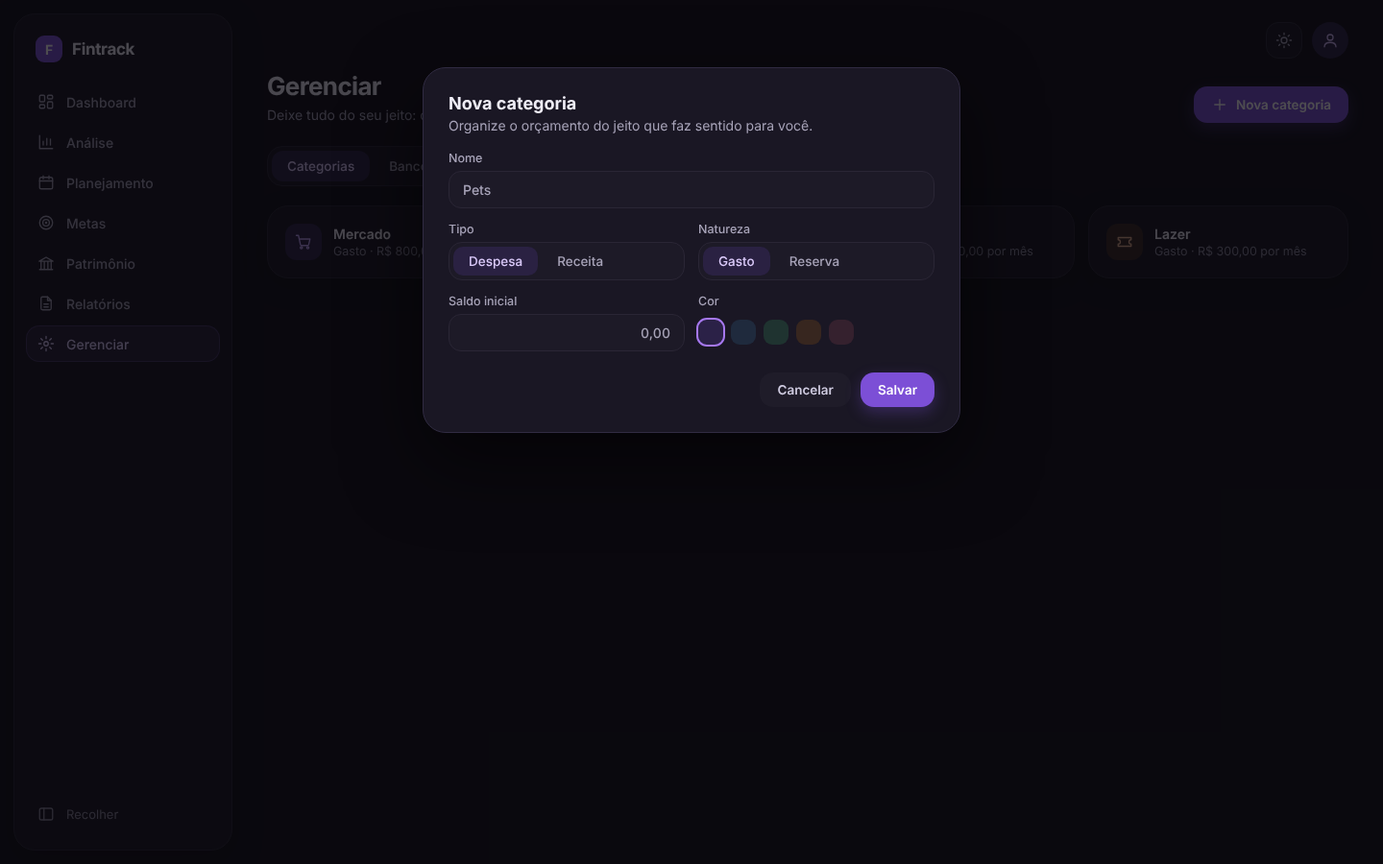
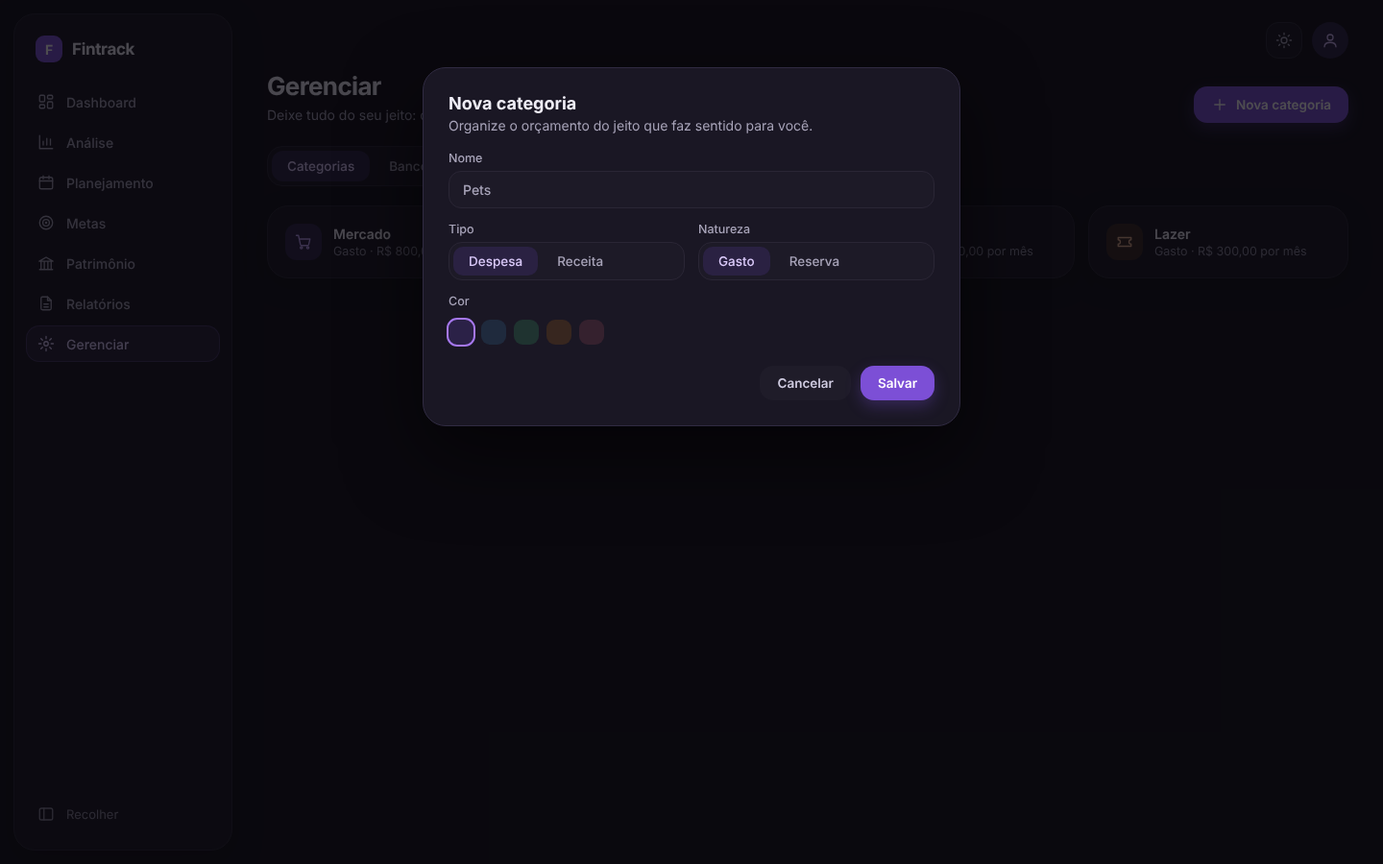
docs: new sections for planning module

diff --git a/docs/design/html/manage.html b/docs/design/html/manage.html
@@ -75,6 +75,6 @@ h1{margin:0;font-size:26px;font-weight:700;letter-spacing:-.025em}.sub{margin:6p
 @media (max-width:640px){.side{flex-basis:100%;margin:12px}.inner{padding:16px}}
 </style>
 <div class="wrap"><div class="shell"><aside class="side"><div class="brand"><span class="logo">F</span>Fintrack</div><a class="nav" href="#"><svg aria-hidden="true" viewBox="0 0 24 24"><rect x="3" y="3" width="7" height="9" rx="1.5"/><rect x="14" y="3" width="7" height="5" rx="1.5"/><rect x="14" y="12" width="7" height="9" rx="1.5"/><rect x="3" y="16" width="7" height="5" rx="1.5"/></svg>Dashboard</a><a class="nav" href="#"><svg aria-hidden="true" viewBox="0 0 24 24"><path d="M3 3v18h18"/><path d="M8 16v-5M13 16V7M18 16v-8"/></svg>Análise</a><a class="nav" href="#"><svg aria-hidden="true" viewBox="0 0 24 24"><rect x="3" y="5" width="18" height="16" rx="2.5"/><path d="M8 3v4M16 3v4M3 10h18"/></svg>Planejamento</a><a class="nav" href="#"><svg aria-hidden="true" viewBox="0 0 24 24"><circle cx="12" cy="12" r="9"/><circle cx="12" cy="12" r="4.5"/><circle cx="12" cy="12" r=".8"/></svg>Metas</a><a class="nav" href="#"><svg aria-hidden="true" viewBox="0 0 24 24"><path d="M3 21h18M5 21V10M9.5 21V10M14.5 21V10M19 21V10M2.5 9.5 12 4l9.5 5.5z"/></svg>Patrimônio</a><a class="nav" href="#"><svg aria-hidden="true" viewBox="0 0 24 24"><path d="M14 3H7a2 2 0 0 0-2 2v14a2 2 0 0 0 2 2h10a2 2 0 0 0 2-2V8z"/><path d="M14 3v5h5M9 13h6M9 17h6"/></svg>Relatórios</a><a class="nav on" href="#"><svg aria-hidden="true" viewBox="0 0 24 24"><circle cx="12" cy="12" r="3"/><path d="M12 2v3M12 19v3M2 12h3M19 12h3M4.9 4.9l2.1 2.1M17 17l2.1 2.1M4.9 19.1 7 17M17 7l2.1-2.1"/></svg>Gerenciar</a><button class="fold" type="button"><svg aria-hidden="true" viewBox="0 0 24 24"><rect x="3" y="4" width="18" height="16" rx="2.5"/><path d="M9 4v16"/></svg>Recolher</button></aside><div class="col"><div class="inner"><div class="top"><button class="ibtn" type="button" aria-label="Alternar tema"><svg aria-hidden="true" viewBox="0 0 24 24"><circle cx="12" cy="12" r="4"/><path d="M12 2v2M12 20v2M2 12h2M20 12h2M4.9 4.9l1.4 1.4M17.7 17.7l1.4 1.4M4.9 19.1l1.4-1.4M17.7 6.3l1.4-1.4"/></svg></button><button class="avatar" type="button" aria-label="Perfil"><svg aria-hidden="true" viewBox="0 0 24 24"><circle cx="12" cy="8" r="4"/><path d="M4 21c0-4 3.6-6 8-6s8 2 8 6"/></svg></button></div>
-<div class="head"><div><h1>Gerenciar</h1><p class="sub">Deixe tudo do seu jeito: categorias, bancos, cartões e formas de pagamento.</p></div><div style="display:flex;gap:10px;align-items:center"><button class="btn" type="button"><svg aria-hidden="true" viewBox="0 0 24 24"><path d="M12 5v14M5 12h14"/></svg>Nova categoria</button></div></div><div style="display:flex;justify-content:space-between;align-items:center;flex-wrap:wrap;gap:12px;margin-bottom:6px"><div class="pills" style="margin:0"><span class="pill on">Categorias</span><span class="pill">Bancos</span><span class="pill">Cartões</span><span class="pill">Pagamentos</span></div><div style="display:flex;gap:10px"><div class="inp" style="width:240px;display:flex;gap:8px;color:#8a8699"><svg aria-hidden="true" viewBox="0 0 24 24"><circle cx="11" cy="11" r="7"/><path d="M20 20l-3.5-3.5"/></svg>Buscar por nome</div><button class="btn ghost" type="button">Mostrar arquivados</button></div></div><h2 class="lbl" style="margin:18px 0 12px;letter-spacing:.04em;text-transform:uppercase;font-size:12px">Despesas</h2><div style="display:grid;grid-template-columns:repeat(auto-fill,minmax(270px,1fr));gap:14px;margin-bottom:26px"><div class="card" style="padding:18px;display:flex;flex-direction:column;gap:16px"><div style="display:flex;gap:12px;align-items:center"><div class="tile" style="background:#2b2147;color:#c3a5fa"><svg aria-hidden="true" viewBox="0 0 24 24"><circle cx="9" cy="20" r="1.5"/><circle cx="18" cy="20" r="1.5"/><path d="M2 3h3l2.7 12.4a2 2 0 0 0 2 1.6h7.6a2 2 0 0 0 2-1.5L21 8H6"/></svg></div><div><div class="nm">Mercado</div><div class="mt">Gasto · R$ 800,00 por mês</div></div></div><div style="display:flex;gap:6px"><button class="btn ghost" style="padding:6px 12px;font-size:12.5px" type="button">Editar</button><button class="btn ghost" style="padding:6px 12px;font-size:12.5px" type="button">Arquivar</button></div></div><div class="card" style="padding:18px;display:flex;flex-direction:column;gap:16px"><div style="display:flex;gap:12px;align-items:center"><div class="tile" style="background:#1f2a3d;color:#8fb7ee"><svg aria-hidden="true" viewBox="0 0 24 24"><path d="M3 11 12 3l9 8M5 10v10h14V10"/></svg></div><div><div class="nm">Moradia</div><div class="mt">Gasto · R$ 1.450,00 por mês</div></div></div><div style="display:flex;gap:6px"><button class="btn ghost" style="padding:6px 12px;font-size:12.5px" type="button">Editar</button><button class="btn ghost" style="padding:6px 12px;font-size:12.5px" type="button">Arquivar</button></div></div><div class="card" style="padding:18px;display:flex;flex-direction:column;gap:16px"><div style="display:flex;gap:12px;align-items:center"><div class="tile" style="background:#1f3330;color:#86cdb7"><svg aria-hidden="true" viewBox="0 0 24 24"><path d="M5 16V11l2-5h10l2 5v5M3 16h18"/></svg></div><div><div class="nm">Transporte</div><div class="mt">Gasto · R$ 400,00 por mês</div></div></div><div style="display:flex;gap:6px"><button class="btn ghost" style="padding:6px 12px;font-size:12.5px" type="button">Editar</button><button class="btn ghost" style="padding:6px 12px;font-size:12.5px" type="button">Arquivar</button></div></div><div class="card" style="padding:18px;display:flex;flex-direction:column;gap:16px"><div style="display:flex;gap:12px;align-items:center"><div class="tile" style="background:#37261f;color:#e6b08d"><svg aria-hidden="true" viewBox="0 0 24 24"><path d="M3 9V6h18v3a3 3 0 0 0 0 6v3H3v-3a3 3 0 0 0 0-6z"/></svg></div><div><div class="nm">Lazer</div><div class="mt">Gasto · R$ 300,00 por mês</div></div></div><div style="display:flex;gap:6px"><button class="btn ghost" style="padding:6px 12px;font-size:12.5px" type="button">Editar</button><button class="btn ghost" style="padding:6px 12px;font-size:12.5px" type="button">Arquivar</button></div></div><div class="card" style="padding:18px;display:flex;flex-direction:column;gap:16px"><div style="display:flex;gap:12px;align-items:center"><div class="tile" style="background:#35212e;color:#e69bb9"><svg aria-hidden="true" viewBox="0 0 24 24"><path d="M12 21s-7-4.5-9-9a5 5 0 0 1 9-3 5 5 0 0 1 9 3c-2 4.5-9 9-9 9z"/></svg></div><div><div class="nm">Saúde</div><div class="mt">Gasto · R$ 250,00 por mês</div></div></div><div style="display:flex;gap:6px"><button class="btn ghost" style="padding:6px 12px;font-size:12.5px" type="button">Editar</button><button class="btn ghost" style="padding:6px 12px;font-size:12.5px" type="button">Arquivar</button></div></div><div class="card" style="padding:18px;display:flex;flex-direction:column;gap:16px"><div style="display:flex;gap:12px;align-items:center"><div class="tile" style="background:#25232e;color:#a7a3b8"><svg aria-hidden="true" viewBox="0 0 24 24"><circle cx="9" cy="20" r="1.5"/><circle cx="18" cy="20" r="1.5"/><path d="M2 3h3l2.7 12.4a2 2 0 0 0 2 1.6h7.6a2 2 0 0 0 2-1.5L21 8H6"/></svg></div><div><div class="nm">Outros</div><div class="mt">Gasto · R$ 120,00 por mês</div></div></div><div style="display:flex;gap:6px"><button class="btn ghost" style="padding:6px 12px;font-size:12.5px" type="button">Editar</button><button class="btn ghost" style="padding:6px 12px;font-size:12.5px" type="button">Arquivar</button></div></div></div><h2 class="lbl" style="margin:0 0 12px;letter-spacing:.04em;text-transform:uppercase;font-size:12px">Reservas e receitas</h2><div style="display:grid;grid-template-columns:repeat(auto-fill,minmax(270px,1fr));gap:14px;margin-bottom:26px"><div class="card" style="padding:18px;display:flex;flex-direction:column;gap:16px"><div style="display:flex;gap:12px;align-items:center"><div class="tile" style="background:#2b2147;color:#c3a5fa"><svg aria-hidden="true" viewBox="0 0 24 24"><path d="M3 17l6-6 4 4 8-8M15 7h6v6"/></svg></div><div><div class="nm">Investimentos</div><div class="mt">Reserva · saldo R$ 1.500,00</div></div></div><div style="display:flex;gap:6px"><button class="btn ghost" style="padding:6px 12px;font-size:12.5px" type="button">Editar</button><button class="btn ghost" style="padding:6px 12px;font-size:12.5px" type="button">Arquivar</button></div></div><div class="card" style="padding:18px;display:flex;flex-direction:column;gap:16px"><div style="display:flex;gap:12px;align-items:center"><div class="tile" style="background:#1f3330;color:#86cdb7"><svg aria-hidden="true" viewBox="0 0 24 24"><rect x="3" y="6" width="18" height="12" rx="2.5"/><circle cx="12" cy="12" r="2.5"/></svg></div><div><div class="nm">Salário</div><div class="mt">Receita</div></div></div><div style="display:flex;gap:6px"><button class="btn ghost" style="padding:6px 12px;font-size:12.5px" type="button">Editar</button><button class="btn ghost" style="padding:6px 12px;font-size:12.5px" type="button">Arquivar</button></div></div></div></div></div></div></div>
+<div class="head"><div><h1>Gerenciar</h1><p class="sub">Deixe tudo do seu jeito: categorias, bancos, cartões e formas de pagamento.</p></div><div style="display:flex;gap:10px;align-items:center"><button class="btn" type="button"><svg aria-hidden="true" viewBox="0 0 24 24"><path d="M12 5v14M5 12h14"/></svg>Nova categoria</button></div></div><div style="display:flex;justify-content:space-between;align-items:center;flex-wrap:wrap;gap:12px;margin-bottom:6px"><div class="pills" style="margin:0"><span class="pill on">Categorias</span><span class="pill">Bancos</span><span class="pill">Cartões</span><span class="pill">Pagamentos</span></div><div style="display:flex;gap:10px"><div class="inp" style="width:240px;display:flex;gap:8px;color:#8a8699"><svg aria-hidden="true" viewBox="0 0 24 24"><circle cx="11" cy="11" r="7"/><path d="M20 20l-3.5-3.5"/></svg>Buscar por nome</div><button class="btn ghost" type="button">Mostrar arquivados</button></div></div><h2 class="lbl" style="margin:18px 0 12px;letter-spacing:.04em;text-transform:uppercase;font-size:12px">Despesas</h2><div style="display:grid;grid-template-columns:repeat(auto-fill,minmax(270px,1fr));gap:14px;margin-bottom:26px"><div class="card" style="padding:18px;display:flex;flex-direction:column;gap:16px"><div style="display:flex;gap:12px;align-items:center"><div class="tile" style="background:#2b2147;color:#c3a5fa"><svg aria-hidden="true" viewBox="0 0 24 24"><circle cx="9" cy="20" r="1.5"/><circle cx="18" cy="20" r="1.5"/><path d="M2 3h3l2.7 12.4a2 2 0 0 0 2 1.6h7.6a2 2 0 0 0 2-1.5L21 8H6"/></svg></div><div><div class="nm">Mercado</div><div class="mt">Gasto · R$ 800,00 por mês</div></div></div><div style="display:flex;gap:6px"><button class="btn ghost" style="padding:6px 12px;font-size:12.5px" type="button">Editar</button><button class="btn ghost" style="padding:6px 12px;font-size:12.5px" type="button">Arquivar</button></div></div><div class="card" style="padding:18px;display:flex;flex-direction:column;gap:16px"><div style="display:flex;gap:12px;align-items:center"><div class="tile" style="background:#1f2a3d;color:#8fb7ee"><svg aria-hidden="true" viewBox="0 0 24 24"><path d="M3 11 12 3l9 8M5 10v10h14V10"/></svg></div><div><div class="nm">Moradia</div><div class="mt">Gasto · R$ 1.450,00 por mês</div></div></div><div style="display:flex;gap:6px"><button class="btn ghost" style="padding:6px 12px;font-size:12.5px" type="button">Editar</button><button class="btn ghost" style="padding:6px 12px;font-size:12.5px" type="button">Arquivar</button></div></div><div class="card" style="padding:18px;display:flex;flex-direction:column;gap:16px"><div style="display:flex;gap:12px;align-items:center"><div class="tile" style="background:#1f3330;color:#86cdb7"><svg aria-hidden="true" viewBox="0 0 24 24"><path d="M5 16V11l2-5h10l2 5v5M3 16h18"/></svg></div><div><div class="nm">Transporte</div><div class="mt">Gasto · R$ 400,00 por mês</div></div></div><div style="display:flex;gap:6px"><button class="btn ghost" style="padding:6px 12px;font-size:12.5px" type="button">Editar</button><button class="btn ghost" style="padding:6px 12px;font-size:12.5px" type="button">Arquivar</button></div></div><div class="card" style="padding:18px;display:flex;flex-direction:column;gap:16px"><div style="display:flex;gap:12px;align-items:center"><div class="tile" style="background:#37261f;color:#e6b08d"><svg aria-hidden="true" viewBox="0 0 24 24"><path d="M3 9V6h18v3a3 3 0 0 0 0 6v3H3v-3a3 3 0 0 0 0-6z"/></svg></div><div><div class="nm">Lazer</div><div class="mt">Gasto · R$ 300,00 por mês</div></div></div><div style="display:flex;gap:6px"><button class="btn ghost" style="padding:6px 12px;font-size:12.5px" type="button">Editar</button><button class="btn ghost" style="padding:6px 12px;font-size:12.5px" type="button">Arquivar</button></div></div><div class="card" style="padding:18px;display:flex;flex-direction:column;gap:16px"><div style="display:flex;gap:12px;align-items:center"><div class="tile" style="background:#35212e;color:#e69bb9"><svg aria-hidden="true" viewBox="0 0 24 24"><path d="M12 21s-7-4.5-9-9a5 5 0 0 1 9-3 5 5 0 0 1 9 3c-2 4.5-9 9-9 9z"/></svg></div><div><div class="nm">Saúde</div><div class="mt">Gasto · R$ 250,00 por mês</div></div></div><div style="display:flex;gap:6px"><button class="btn ghost" style="padding:6px 12px;font-size:12.5px" type="button">Editar</button><button class="btn ghost" style="padding:6px 12px;font-size:12.5px" type="button">Arquivar</button></div></div><div class="card" style="padding:18px;display:flex;flex-direction:column;gap:16px"><div style="display:flex;gap:12px;align-items:center"><div class="tile" style="background:#25232e;color:#a7a3b8"><svg aria-hidden="true" viewBox="0 0 24 24"><circle cx="9" cy="20" r="1.5"/><circle cx="18" cy="20" r="1.5"/><path d="M2 3h3l2.7 12.4a2 2 0 0 0 2 1.6h7.6a2 2 0 0 0 2-1.5L21 8H6"/></svg></div><div><div class="nm">Outros</div><div class="mt">Gasto · R$ 120,00 por mês</div></div></div><div style="display:flex;gap:6px"><button class="btn ghost" style="padding:6px 12px;font-size:12.5px" type="button">Editar</button><button class="btn ghost" style="padding:6px 12px;font-size:12.5px" type="button">Arquivar</button></div></div></div><h2 class="lbl" style="margin:0 0 12px;letter-spacing:.04em;text-transform:uppercase;font-size:12px">Reservas e receitas</h2><div style="display:grid;grid-template-columns:repeat(auto-fill,minmax(270px,1fr));gap:14px;margin-bottom:26px"><div class="card" style="padding:18px;display:flex;flex-direction:column;gap:16px"><div style="display:flex;gap:12px;align-items:center"><div class="tile" style="background:#2b2147;color:#c3a5fa"><svg aria-hidden="true" viewBox="0 0 24 24"><path d="M3 17l6-6 4 4 8-8M15 7h6v6"/></svg></div><div><div class="nm">Investimentos</div><div class="mt">Reserva</div></div></div><div style="display:flex;gap:6px"><button class="btn ghost" style="padding:6px 12px;font-size:12.5px" type="button">Editar</button><button class="btn ghost" style="padding:6px 12px;font-size:12.5px" type="button">Arquivar</button></div></div><div class="card" style="padding:18px;display:flex;flex-direction:column;gap:16px"><div style="display:flex;gap:12px;align-items:center"><div class="tile" style="background:#1f3330;color:#86cdb7"><svg aria-hidden="true" viewBox="0 0 24 24"><rect x="3" y="6" width="18" height="12" rx="2.5"/><circle cx="12" cy="12" r="2.5"/></svg></div><div><div class="nm">Salário</div><div class="mt">Receita</div></div></div><div style="display:flex;gap:6px"><button class="btn ghost" style="padding:6px 12px;font-size:12.5px" type="button">Editar</button><button class="btn ghost" style="padding:6px 12px;font-size:12.5px" type="button">Arquivar</button></div></div></div></div></div></div></div>
 
 </body></html>

diff --git a/docs/design/html/planning.html b/docs/design/html/planning.html
@@ -75,12 +75,15 @@ h1{margin:0;font-size:26px;font-weight:700;letter-spacing:-.025em}.sub{margin:6p
 @media (max-width:640px){.side{flex-basis:100%;margin:12px}.inner{padding:16px}}
 </style>
 <div class="wrap"><div class="shell"><aside class="side"><div class="brand"><span class="logo">F</span>Fintrack</div><a class="nav" href="#"><svg aria-hidden="true" viewBox="0 0 24 24"><rect x="3" y="3" width="7" height="9" rx="1.5"/><rect x="14" y="3" width="7" height="5" rx="1.5"/><rect x="14" y="12" width="7" height="9" rx="1.5"/><rect x="3" y="16" width="7" height="5" rx="1.5"/></svg>Dashboard</a><a class="nav" href="#"><svg aria-hidden="true" viewBox="0 0 24 24"><path d="M3 3v18h18"/><path d="M8 16v-5M13 16V7M18 16v-8"/></svg>Análise</a><a class="nav on" href="#"><svg aria-hidden="true" viewBox="0 0 24 24"><rect x="3" y="5" width="18" height="16" rx="2.5"/><path d="M8 3v4M16 3v4M3 10h18"/></svg>Planejamento</a><a class="nav" href="#"><svg aria-hidden="true" viewBox="0 0 24 24"><circle cx="12" cy="12" r="9"/><circle cx="12" cy="12" r="4.5"/><circle cx="12" cy="12" r=".8"/></svg>Metas</a><a class="nav" href="#"><svg aria-hidden="true" viewBox="0 0 24 24"><path d="M3 21h18M5 21V10M9.5 21V10M14.5 21V10M19 21V10M2.5 9.5 12 4l9.5 5.5z"/></svg>Patrimônio</a><a class="nav" href="#"><svg aria-hidden="true" viewBox="0 0 24 24"><path d="M14 3H7a2 2 0 0 0-2 2v14a2 2 0 0 0 2 2h10a2 2 0 0 0 2-2V8z"/><path d="M14 3v5h5M9 13h6M9 17h6"/></svg>Relatórios</a><a class="nav" href="#"><svg aria-hidden="true" viewBox="0 0 24 24"><circle cx="12" cy="12" r="3"/><path d="M12 2v3M12 19v3M2 12h3M19 12h3M4.9 4.9l2.1 2.1M17 17l2.1 2.1M4.9 19.1 7 17M17 7l2.1-2.1"/></svg>Gerenciar</a><button class="fold" type="button"><svg aria-hidden="true" viewBox="0 0 24 24"><rect x="3" y="4" width="18" height="16" rx="2.5"/><path d="M9 4v16"/></svg>Recolher</button></aside><div class="col"><div class="inner"><div class="top"><button class="ibtn" type="button" aria-label="Alternar tema"><svg aria-hidden="true" viewBox="0 0 24 24"><circle cx="12" cy="12" r="4"/><path d="M12 2v2M12 20v2M2 12h2M20 12h2M4.9 4.9l1.4 1.4M17.7 17.7l1.4 1.4M4.9 19.1l1.4-1.4M17.7 6.3l1.4-1.4"/></svg></button><button class="avatar" type="button" aria-label="Perfil"><svg aria-hidden="true" viewBox="0 0 24 24"><circle cx="12" cy="8" r="4"/><path d="M4 21c0-4 3.6-6 8-6s8 2 8 6"/></svg></button></div>
-<div class="head"><div><h1>Planejamento</h1><p class="sub">Defina quanto cada categoria recebe neste mês.</p></div><div style="display:flex;gap:10px;align-items:center"><div class="month"><button type="button" aria-label="Mês anterior"><svg aria-hidden="true" viewBox="0 0 24 24"><path d="M15 6l-6 6 6 6"/></svg></button><span>Novembro 2026</span><button type="button" aria-label="Próximo mês"><svg aria-hidden="true" viewBox="0 0 24 24"><path d="M9 6l6 6-6 6"/></svg></button></div></div></div><div class="pills"><span class="pill on">Planejar o mês</span><span class="pill">Fixos e parcelados</span><span class="pill">Remanejar</span></div>
-<div class="grid"><div class="c8"><div class="card"><div style="display:flex;justify-content:space-between;align-items:flex-end;margin-bottom:16px"><div class="fl" style="width:220px">Renda esperada<label class="fl"><input class="inp r" value="R$ 6.200,00" readonly></label></div><button class="btn ghost" type="button">Copiar do mês anterior</button></div>
-<table class="tbl"><thead><tr><th>Categoria</th><th class="r">Saldo anterior</th><th class="r">Valor do mês</th><th class="r">Disponível</th></tr></thead><tbody>
-<tr><td><div style="display:flex;gap:12px;align-items:center"><div class="tile" style="background:#2b2147;color:#c3a5fa"><svg aria-hidden="true" viewBox="0 0 24 24"><circle cx="9" cy="20" r="1.5"/><circle cx="18" cy="20" r="1.5"/><path d="M2 3h3l2.7 12.4a2 2 0 0 0 2 1.6h7.6a2 2 0 0 0 2-1.5L21 8H6"/></svg></div><span class="nm">Mercado</span></div></td><td class="r">R$ 120,00</td><td class="r" style="width:150px"><div class="inp r" style="padding:8px 12px">R$ 800,00</div></td><td class="r nm ">R$ 920,00</td></tr><tr><td><div style="display:flex;gap:12px;align-items:center"><div class="tile" style="background:#1f2a3d;color:#8fb7ee"><svg aria-hidden="true" viewBox="0 0 24 24"><path d="M3 11 12 3l9 8M5 10v10h14V10"/></svg></div><span class="nm">Moradia</span></div></td><td class="r">R$ 0,00</td><td class="r" style="width:150px"><div class="inp r" style="padding:8px 12px">R$ 1.450,00</div></td><td class="r nm ">R$ 1.450,00</td></tr><tr><td><div style="display:flex;gap:12px;align-items:center"><div class="tile" style="background:#1f3330;color:#86cdb7"><svg aria-hidden="true" viewBox="0 0 24 24"><path d="M5 16V11l2-5h10l2 5v5M3 16h18"/></svg></div><span class="nm">Transporte</span></div></td><td class="r">R$ 40,00</td><td class="r" style="width:150px"><div class="inp r" style="padding:8px 12px">R$ 400,00</div></td><td class="r nm ">R$ 440,00</td></tr><tr><td><div style="display:flex;gap:12px;align-items:center"><div class="tile" style="background:#37261f;color:#e6b08d"><svg aria-hidden="true" viewBox="0 0 24 24"><path d="M3 9V6h18v3a3 3 0 0 0 0 6v3H3v-3a3 3 0 0 0 0-6z"/></svg></div><span class="nm">Lazer</span></div></td><td class="r">R$ 80,00</td><td class="r" style="width:150px"><div class="inp r" style="padding:8px 12px">R$ 300,00</div></td><td class="r nm ">R$ 380,00</td></tr><tr><td><div style="display:flex;gap:12px;align-items:center"><div class="tile" style="background:#35212e;color:#e69bb9"><svg aria-hidden="true" viewBox="0 0 24 24"><path d="M12 21s-7-4.5-9-9a5 5 0 0 1 9-3 5 5 0 0 1 9 3c-2 4.5-9 9-9 9z"/></svg></div><span class="nm">Saúde</span></div></td><td class="r">R$ 0,00</td><td class="r" style="width:150px"><div class="inp r" style="padding:8px 12px">R$ 250,00</div></td><td class="r nm ">R$ 250,00</td></tr><tr><td><div style="display:flex;gap:12px;align-items:center"><div class="tile" style="background:#25232e;color:#a7a3b8"><svg aria-hidden="true" viewBox="0 0 24 24"><circle cx="9" cy="20" r="1.5"/><circle cx="18" cy="20" r="1.5"/><path d="M2 3h3l2.7 12.4a2 2 0 0 0 2 1.6h7.6a2 2 0 0 0 2-1.5L21 8H6"/></svg></div><span class="nm">Outros</span></div></td><td class="r">R$ 80,00</td><td class="r" style="width:150px"><div class="inp r" style="padding:8px 12px">R$ 120,00</div></td><td class="r nm ">R$ 200,00</td></tr></tbody></table></div></div>
-<div class="c4"><div class="card hi"><h2 style="margin:0 0 14px;font-size:15px">Visão final</h2><div class="lbl">Renda esperada</div><div class="nm" style="font-size:18px;margin:4px 0 14px">R$ 6.200,00</div><div class="lbl">Total planejado</div><div class="nm" style="font-size:18px;margin:4px 0 14px">R$ 5.020,00</div><div class="lbl">Sobra a alocar</div><div class="big pos" style="font-size:26px;margin-top:4px">R$ 1.180,00</div>
-<svg viewBox="0 0 120 120" style="width:150px;height:150px;margin:18px auto 6px;display:block;stroke:none" role="img" aria-label="Distribuição do planejado"><circle cx="60" cy="60" r="44" fill="none" stroke="#2a2635" stroke-width="14"/><circle cx="60" cy="60" r="44" fill="none" stroke="#8c63dc" stroke-width="14" stroke-dasharray="80 276" transform="rotate(-90 60 60)"/><circle cx="60" cy="60" r="44" fill="none" stroke="#6f9ee0" stroke-width="14" stroke-dasharray="64 276" stroke-dashoffset="-82" transform="rotate(-90 60 60)"/><circle cx="60" cy="60" r="44" fill="none" stroke="#7cc4ac" stroke-width="14" stroke-dasharray="40 276" stroke-dashoffset="-148" transform="rotate(-90 60 60)"/></svg>
-<div class="note" style="text-align:center">Fixos e parcelas: R$ 2.180,00 do planejado</div><button class="btn" style="width:100%;justify-content:center;margin-top:16px" type="button">Confirmar planejamento</button></div></div></div></div></div></div></div>
+<div class="head"><div><h1>Planejamento</h1><p class="sub">Defina quanto cada categoria recebe neste mês.</p></div><div style="display:flex;gap:10px;align-items:center"><div class="month"><button type="button" aria-label="Mês anterior"><svg aria-hidden="true" viewBox="0 0 24 24"><path d="M15 6l-6 6 6 6"/></svg></button><span>Novembro 2026</span><button type="button" aria-label="Próximo mês"><svg aria-hidden="true" viewBox="0 0 24 24"><path d="M9 6l6 6-6 6"/></svg></button></div></div></div><div class="pills"><span class="pill on">Planejar o mês</span><span class="pill">Fixos e parcelados</span></div>
+<div class="grid"><div class="c8"><div class="card"><div style="display:flex;justify-content:space-between;align-items:flex-end;margin-bottom:16px;gap:16px"><div style="display:flex;gap:16px;align-items:flex-end"><div class="fl" style="width:220px">Renda esperada<label class="fl"><input class="inp " value="6.200,00" readonly></label></div><span class="chip" style="margin:0 0 14px">Rascunho</span></div><button class="btn ghost" type="button">Copiar do mês anterior</button></div>
+<table class="tbl"><thead><tr><th>Categoria</th><th>Valor do mês</th><th class="r">Gasto no mês</th><th class="r">Usado</th><th class="r">Resta</th></tr></thead><tbody>
+<tr><td><div style="display:flex;gap:12px;align-items:center"><div class="tile" style="background:#2b2147;color:#c3a5fa"><svg aria-hidden="true" viewBox="0 0 24 24"><circle cx="9" cy="20" r="1.5"/><circle cx="18" cy="20" r="1.5"/><path d="M2 3h3l2.7 12.4a2 2 0 0 0 2 1.6h7.6a2 2 0 0 0 2-1.5L21 8H6"/></svg></div><span class="nm">Mercado</span></div></td><td style="width:150px"><div class="inp" style="padding:8px 12px">800,00</div></td><td class="r">R$ 612,40</td><td class="r" style="white-space:nowrap"><div class="bar" style="margin:0;width:120px;display:inline-block;vertical-align:middle"><i style="width:77%"></i></div> <span class="nm " style="margin-left:8px">77%</span></td><td class="r nm ">R$ 187,60</td></tr><tr><td><div style="display:flex;gap:12px;align-items:center"><div class="tile" style="background:#1f2a3d;color:#8fb7ee"><svg aria-hidden="true" viewBox="0 0 24 24"><path d="M3 11 12 3l9 8M5 10v10h14V10"/></svg></div><span class="nm">Moradia</span></div></td><td style="width:150px"><div class="inp" style="padding:8px 12px">1.450,00</div></td><td class="r">R$ 1.450,00</td><td class="r" style="white-space:nowrap"><div class="bar" style="margin:0;width:120px;display:inline-block;vertical-align:middle"><i style="width:100%"></i></div> <span class="nm " style="margin-left:8px">100%</span></td><td class="r nm ">R$ 0,00</td></tr><tr><td><div style="display:flex;gap:12px;align-items:center"><div class="tile" style="background:#1f3330;color:#86cdb7"><svg aria-hidden="true" viewBox="0 0 24 24"><path d="M5 16V11l2-5h10l2 5v5M3 16h18"/></svg></div><span class="nm">Transporte</span></div></td><td style="width:150px"><div class="inp" style="padding:8px 12px">400,00</div></td><td class="r">R$ 468,00</td><td class="r" style="white-space:nowrap"><div class="bar" style="margin:0;width:120px;display:inline-block;vertical-align:middle"><i style="width:100%;background:#d9696c"></i></div> <span class="nm neg" style="margin-left:8px">117%</span></td><td class="r nm neg">−R$ 68,00</td></tr><tr><td><div style="display:flex;gap:12px;align-items:center"><div class="tile" style="background:#37261f;color:#e6b08d"><svg aria-hidden="true" viewBox="0 0 24 24"><path d="M3 9V6h18v3a3 3 0 0 0 0 6v3H3v-3a3 3 0 0 0 0-6z"/></svg></div><span class="nm">Lazer</span></div></td><td style="width:150px"><div class="inp" style="padding:8px 12px">300,00</div></td><td class="r">R$ 190,00</td><td class="r" style="white-space:nowrap"><div class="bar" style="margin:0;width:120px;display:inline-block;vertical-align:middle"><i style="width:63%"></i></div> <span class="nm " style="margin-left:8px">63%</span></td><td class="r nm ">R$ 110,00</td></tr><tr><td><div style="display:flex;gap:12px;align-items:center"><div class="tile" style="background:#35212e;color:#e69bb9"><svg aria-hidden="true" viewBox="0 0 24 24"><path d="M12 21s-7-4.5-9-9a5 5 0 0 1 9-3 5 5 0 0 1 9 3c-2 4.5-9 9-9 9z"/></svg></div><span class="nm">Saúde</span></div></td><td style="width:150px"><div class="inp" style="padding:8px 12px">250,00</div></td><td class="r">R$ 0,00</td><td class="r" style="white-space:nowrap"><div class="bar" style="margin:0;width:120px;display:inline-block;vertical-align:middle"><i style="width:0%"></i></div> <span class="nm " style="margin-left:8px">0%</span></td><td class="r nm ">R$ 250,00</td></tr><tr><td><div style="display:flex;gap:12px;align-items:center"><div class="tile" style="background:#25232e;color:#a7a3b8"><svg aria-hidden="true" viewBox="0 0 24 24"><circle cx="9" cy="20" r="1.5"/><circle cx="18" cy="20" r="1.5"/><path d="M2 3h3l2.7 12.4a2 2 0 0 0 2 1.6h7.6a2 2 0 0 0 2-1.5L21 8H6"/></svg></div><span class="nm">Outros</span></div></td><td style="width:150px"><div class="inp" style="padding:8px 12px">120,00</div></td><td class="r">R$ 58,00</td><td class="r" style="white-space:nowrap"><div class="bar" style="margin:0;width:120px;display:inline-block;vertical-align:middle"><i style="width:48%"></i></div> <span class="nm " style="margin-left:8px">48%</span></td><td class="r nm ">R$ 62,00</td></tr>
+</tbody></table>
+<div class="lbl" style="margin:22px 0 6px">Reservas (quanto vou guardar no mês)</div>
+<table class="tbl"><tbody><tr><td><div style="display:flex;gap:12px;align-items:center"><div class="tile" style="background:#37261f;color:#e6b08d"><svg aria-hidden="true" viewBox="0 0 24 24"><path d="M3 11 12 3l9 8M5 10v10h14V10"/></svg></div><span class="nm">Reserva de emergência</span></div></td><td style="width:150px"><div class="inp" style="padding:8px 12px">500,00</div></td><td class="r mt">—</td><td class="r mt" colspan="2">Guardado em Metas</td></tr><tr><td><div style="display:flex;gap:12px;align-items:center"><div class="tile" style="background:#1f2a3d;color:#8fb7ee"><svg aria-hidden="true" viewBox="0 0 24 24"><path d="M5 16V11l2-5h10l2 5v5M3 16h18"/></svg></div><span class="nm">Investimentos</span></div></td><td style="width:150px"><div class="inp" style="padding:8px 12px">700,00</div></td><td class="r mt">—</td><td class="r mt" colspan="2">Guardado em Metas</td></tr></tbody></table></div></div>
+<div class="c4"><div class="card hi"><h2 style="margin:0 0 14px;font-size:15px">Visão final</h2><div class="lbl">Renda esperada</div><div class="nm" style="font-size:18px;margin:4px 0 14px">R$ 6.200,00</div><div class="lbl">Total planejado</div><div class="nm" style="font-size:18px;margin:4px 0 14px">R$ 4.520,00</div><div class="lbl">Sobra a alocar</div><div class="big pos" style="font-size:26px;margin-top:4px">R$ 1.680,00</div>
+<svg viewBox="0 0 120 120" style="width:150px;height:150px;margin:18px auto 6px;display:block;stroke:none" role="img" aria-label="Distribuição do planejado"><circle cx="60" cy="60" r="44" fill="none" stroke="#2a2635" stroke-width="14"/><circle cx="60" cy="60" r="44" fill="none" stroke="#8c63dc" stroke-width="14" stroke-dasharray="196 276" transform="rotate(-90 60 60)"/><circle cx="60" cy="60" r="44" fill="none" stroke="#7cc4ac" stroke-width="14" stroke-dasharray="76 276" stroke-dashoffset="-198" transform="rotate(-90 60 60)"/></svg>
+<div class="note" style="text-align:center">Gastos R$ 3.320,00 · Reservas R$ 1.200,00</div><div class="note" style="text-align:center;margin-top:6px">Fixos e parcelas: R$ 2.180,00, dentro do planejado</div><button class="btn" style="width:100%;justify-content:center;margin-top:16px" type="button">Confirmar planejamento</button></div></div></div></div></div></div></div>
 
 </body></html>

diff --git a/docs/design/html/manage-modal.html b/docs/design/html/manage-modal.html
@@ -77,7 +77,7 @@ h1{margin:0;font-size:26px;font-weight:700;letter-spacing:-.025em}.sub{margin:6p
 <div class="wrap"><div class="shell"><aside class="side"><div class="brand"><span class="logo">F</span>Fintrack</div><a class="nav" href="#"><svg aria-hidden="true" viewBox="0 0 24 24"><rect x="3" y="3" width="7" height="9" rx="1.5"/><rect x="14" y="3" width="7" height="5" rx="1.5"/><rect x="14" y="12" width="7" height="9" rx="1.5"/><rect x="3" y="16" width="7" height="5" rx="1.5"/></svg>Dashboard</a><a class="nav" href="#"><svg aria-hidden="true" viewBox="0 0 24 24"><path d="M3 3v18h18"/><path d="M8 16v-5M13 16V7M18 16v-8"/></svg>Análise</a><a class="nav" href="#"><svg aria-hidden="true" viewBox="0 0 24 24"><rect x="3" y="5" width="18" height="16" rx="2.5"/><path d="M8 3v4M16 3v4M3 10h18"/></svg>Planejamento</a><a class="nav" href="#"><svg aria-hidden="true" viewBox="0 0 24 24"><circle cx="12" cy="12" r="9"/><circle cx="12" cy="12" r="4.5"/><circle cx="12" cy="12" r=".8"/></svg>Metas</a><a class="nav" href="#"><svg aria-hidden="true" viewBox="0 0 24 24"><path d="M3 21h18M5 21V10M9.5 21V10M14.5 21V10M19 21V10M2.5 9.5 12 4l9.5 5.5z"/></svg>Patrimônio</a><a class="nav" href="#"><svg aria-hidden="true" viewBox="0 0 24 24"><path d="M14 3H7a2 2 0 0 0-2 2v14a2 2 0 0 0 2 2h10a2 2 0 0 0 2-2V8z"/><path d="M14 3v5h5M9 13h6M9 17h6"/></svg>Relatórios</a><a class="nav on" href="#"><svg aria-hidden="true" viewBox="0 0 24 24"><circle cx="12" cy="12" r="3"/><path d="M12 2v3M12 19v3M2 12h3M19 12h3M4.9 4.9l2.1 2.1M17 17l2.1 2.1M4.9 19.1 7 17M17 7l2.1-2.1"/></svg>Gerenciar</a><button class="fold" type="button"><svg aria-hidden="true" viewBox="0 0 24 24"><rect x="3" y="4" width="18" height="16" rx="2.5"/><path d="M9 4v16"/></svg>Recolher</button></aside><div class="col"><div class="inner"><div class="top"><button class="ibtn" type="button" aria-label="Alternar tema"><svg aria-hidden="true" viewBox="0 0 24 24"><circle cx="12" cy="12" r="4"/><path d="M12 2v2M12 20v2M2 12h2M20 12h2M4.9 4.9l1.4 1.4M17.7 17.7l1.4 1.4M4.9 19.1l1.4-1.4M17.7 6.3l1.4-1.4"/></svg></button><button class="avatar" type="button" aria-label="Perfil"><svg aria-hidden="true" viewBox="0 0 24 24"><circle cx="12" cy="8" r="4"/><path d="M4 21c0-4 3.6-6 8-6s8 2 8 6"/></svg></button></div>
 <div class="head"><div><h1>Gerenciar</h1><p class="sub">Deixe tudo do seu jeito: categorias, bancos, cartões e formas de pagamento.</p></div><div style="display:flex;gap:10px;align-items:center"><button class="btn" type="button"><svg aria-hidden="true" viewBox="0 0 24 24"><path d="M12 5v14M5 12h14"/></svg>Nova categoria</button></div></div><div class="pills"><span class="pill on">Categorias</span><span class="pill">Bancos</span><span class="pill">Cartões</span><span class="pill">Pagamentos</span></div><div style="display:grid;grid-template-columns:repeat(auto-fill,minmax(270px,1fr));gap:14px"><div class="card" style="padding:18px;display:flex;flex-direction:column;gap:16px"><div style="display:flex;gap:12px;align-items:center"><div class="tile" style="background:#2b2147;color:#c3a5fa"><svg aria-hidden="true" viewBox="0 0 24 24"><circle cx="9" cy="20" r="1.5"/><circle cx="18" cy="20" r="1.5"/><path d="M2 3h3l2.7 12.4a2 2 0 0 0 2 1.6h7.6a2 2 0 0 0 2-1.5L21 8H6"/></svg></div><div><div class="nm">Mercado</div><div class="mt">Gasto · R$ 800,00 por mês</div></div></div></div><div class="card" style="padding:18px;display:flex;flex-direction:column;gap:16px"><div style="display:flex;gap:12px;align-items:center"><div class="tile" style="background:#1f2a3d;color:#8fb7ee"><svg aria-hidden="true" viewBox="0 0 24 24"><path d="M3 11 12 3l9 8M5 10v10h14V10"/></svg></div><div><div class="nm">Moradia</div><div class="mt">Gasto · R$ 1.450,00 por mês</div></div></div></div><div class="card" style="padding:18px;display:flex;flex-direction:column;gap:16px"><div style="display:flex;gap:12px;align-items:center"><div class="tile" style="background:#1f3330;color:#86cdb7"><svg aria-hidden="true" viewBox="0 0 24 24"><path d="M5 16V11l2-5h10l2 5v5M3 16h18"/></svg></div><div><div class="nm">Transporte</div><div class="mt">Gasto · R$ 400,00 por mês</div></div></div></div><div class="card" style="padding:18px;display:flex;flex-direction:column;gap:16px"><div style="display:flex;gap:12px;align-items:center"><div class="tile" style="background:#37261f;color:#e6b08d"><svg aria-hidden="true" viewBox="0 0 24 24"><path d="M3 9V6h18v3a3 3 0 0 0 0 6v3H3v-3a3 3 0 0 0 0-6z"/></svg></div><div><div class="nm">Lazer</div><div class="mt">Gasto · R$ 300,00 por mês</div></div></div></div></div></div></div></div><div class="over"><div class="modal"><h2>Nova categoria</h2><p class="sub" style="margin:0">Organize o orçamento do jeito que faz sentido para você.</p>
 <div class="stack"><label class="fl">Nome<input class="inp " value="Pets" readonly></label><div class="f2"><div class="fl">Tipo<div class="seg"><span class="on">Despesa</span><span>Receita</span></div></div><div class="fl">Natureza<div class="seg"><span class="on">Gasto</span><span>Reserva</span></div></div></div>
-<div class="f2"><label class="fl">Saldo inicial<input class="inp r" value="0,00" readonly></label><div class="fl">Cor<div style="display:flex;gap:8px;padding-top:6px"><span class="tile" style="width:26px;height:26px;border-radius:9px;background:#2b2147;outline:2px solid #a678f0"></span><span class="tile" style="width:26px;height:26px;border-radius:9px;background:#1f2a3d"></span><span class="tile" style="width:26px;height:26px;border-radius:9px;background:#1f3330"></span><span class="tile" style="width:26px;height:26px;border-radius:9px;background:#37261f"></span><span class="tile" style="width:26px;height:26px;border-radius:9px;background:#35212e"></span></div></div></div></div>
+<div class="f2"><div class="fl">Cor<div style="display:flex;gap:8px;padding-top:6px"><span class="tile" style="width:26px;height:26px;border-radius:9px;background:#2b2147;outline:2px solid #a678f0"></span><span class="tile" style="width:26px;height:26px;border-radius:9px;background:#1f2a3d"></span><span class="tile" style="width:26px;height:26px;border-radius:9px;background:#1f3330"></span><span class="tile" style="width:26px;height:26px;border-radius:9px;background:#37261f"></span><span class="tile" style="width:26px;height:26px;border-radius:9px;background:#35212e"></span></div></div></div></div>
 <div class="mfoot"><button class="btn ghost" type="button">Cancelar</button><button class="btn" type="button">Salvar</button></div></div></div></div>
 
 </body></html>

diff --git a/docs/design/html/manage-modal.light.html b/docs/design/html/manage-modal.light.html
@@ -77,7 +77,7 @@ h1{margin:0;font-size:26px;font-weight:700;letter-spacing:-.025em}.sub{margin:6p
 <div class="wrap"><div class="shell"><aside class="side"><div class="brand"><span class="logo">F</span>Fintrack</div><a class="nav" href="#"><svg aria-hidden="true" viewBox="0 0 24 24"><rect x="3" y="3" width="7" height="9" rx="1.5"/><rect x="14" y="3" width="7" height="5" rx="1.5"/><rect x="14" y="12" width="7" height="9" rx="1.5"/><rect x="3" y="16" width="7" height="5" rx="1.5"/></svg>Dashboard</a><a class="nav" href="#"><svg aria-hidden="true" viewBox="0 0 24 24"><path d="M3 3v18h18"/><path d="M8 16v-5M13 16V7M18 16v-8"/></svg>Análise</a><a class="nav" href="#"><svg aria-hidden="true" viewBox="0 0 24 24"><rect x="3" y="5" width="18" height="16" rx="2.5"/><path d="M8 3v4M16 3v4M3 10h18"/></svg>Planejamento</a><a class="nav" href="#"><svg aria-hidden="true" viewBox="0 0 24 24"><circle cx="12" cy="12" r="9"/><circle cx="12" cy="12" r="4.5"/><circle cx="12" cy="12" r=".8"/></svg>Metas</a><a class="nav" href="#"><svg aria-hidden="true" viewBox="0 0 24 24"><path d="M3 21h18M5 21V10M9.5 21V10M14.5 21V10M19 21V10M2.5 9.5 12 4l9.5 5.5z"/></svg>Patrimônio</a><a class="nav" href="#"><svg aria-hidden="true" viewBox="0 0 24 24"><path d="M14 3H7a2 2 0 0 0-2 2v14a2 2 0 0 0 2 2h10a2 2 0 0 0 2-2V8z"/><path d="M14 3v5h5M9 13h6M9 17h6"/></svg>Relatórios</a><a class="nav on" href="#"><svg aria-hidden="true" viewBox="0 0 24 24"><circle cx="12" cy="12" r="3"/><path d="M12 2v3M12 19v3M2 12h3M19 12h3M4.9 4.9l2.1 2.1M17 17l2.1 2.1M4.9 19.1 7 17M17 7l2.1-2.1"/></svg>Gerenciar</a><button class="fold" type="button"><svg aria-hidden="true" viewBox="0 0 24 24"><rect x="3" y="4" width="18" height="16" rx="2.5"/><path d="M9 4v16"/></svg>Recolher</button></aside><div class="col"><div class="inner"><div class="top"><button class="ibtn" type="button" aria-label="Alternar tema"><svg aria-hidden="true" viewBox="0 0 24 24"><circle cx="12" cy="12" r="4"/><path d="M12 2v2M12 20v2M2 12h2M20 12h2M4.9 4.9l1.4 1.4M17.7 17.7l1.4 1.4M4.9 19.1l1.4-1.4M17.7 6.3l1.4-1.4"/></svg></button><button class="avatar" type="button" aria-label="Perfil"><svg aria-hidden="true" viewBox="0 0 24 24"><circle cx="12" cy="8" r="4"/><path d="M4 21c0-4 3.6-6 8-6s8 2 8 6"/></svg></button></div>
 <div class="head"><div><h1>Gerenciar</h1><p class="sub">Deixe tudo do seu jeito: categorias, bancos, cartões e formas de pagamento.</p></div><div style="display:flex;gap:10px;align-items:center"><button class="btn" type="button"><svg aria-hidden="true" viewBox="0 0 24 24"><path d="M12 5v14M5 12h14"/></svg>Nova categoria</button></div></div><div class="pills"><span class="pill on">Categorias</span><span class="pill">Bancos</span><span class="pill">Cartões</span><span class="pill">Pagamentos</span></div><div style="display:grid;grid-template-columns:repeat(auto-fill,minmax(270px,1fr));gap:14px"><div class="card" style="padding:18px;display:flex;flex-direction:column;gap:16px"><div style="display:flex;gap:12px;align-items:center"><div class="tile" style="background:#ece4fb;color:#6d3fc4"><svg aria-hidden="true" viewBox="0 0 24 24"><circle cx="9" cy="20" r="1.5"/><circle cx="18" cy="20" r="1.5"/><path d="M2 3h3l2.7 12.4a2 2 0 0 0 2 1.6h7.6a2 2 0 0 0 2-1.5L21 8H6"/></svg></div><div><div class="nm">Mercado</div><div class="mt">Gasto · R$ 800,00 por mês</div></div></div></div><div class="card" style="padding:18px;display:flex;flex-direction:column;gap:16px"><div style="display:flex;gap:12px;align-items:center"><div class="tile" style="background:#e4edf9;color:#2f64b0"><svg aria-hidden="true" viewBox="0 0 24 24"><path d="M3 11 12 3l9 8M5 10v10h14V10"/></svg></div><div><div class="nm">Moradia</div><div class="mt">Gasto · R$ 1.450,00 por mês</div></div></div></div><div class="card" style="padding:18px;display:flex;flex-direction:column;gap:16px"><div style="display:flex;gap:12px;align-items:center"><div class="tile" style="background:#e0f2ec;color:#2a7a62"><svg aria-hidden="true" viewBox="0 0 24 24"><path d="M5 16V11l2-5h10l2 5v5M3 16h18"/></svg></div><div><div class="nm">Transporte</div><div class="mt">Gasto · R$ 400,00 por mês</div></div></div></div><div class="card" style="padding:18px;display:flex;flex-direction:column;gap:16px"><div style="display:flex;gap:12px;align-items:center"><div class="tile" style="background:#f8eadf;color:#a65a24"><svg aria-hidden="true" viewBox="0 0 24 24"><path d="M3 9V6h18v3a3 3 0 0 0 0 6v3H3v-3a3 3 0 0 0 0-6z"/></svg></div><div><div class="nm">Lazer</div><div class="mt">Gasto · R$ 300,00 por mês</div></div></div></div></div></div></div></div><div class="over"><div class="modal"><h2>Nova categoria</h2><p class="sub" style="margin:0">Organize o orçamento do jeito que faz sentido para você.</p>
 <div class="stack"><label class="fl">Nome<input class="inp " value="Pets" readonly></label><div class="f2"><div class="fl">Tipo<div class="seg"><span class="on">Despesa</span><span>Receita</span></div></div><div class="fl">Natureza<div class="seg"><span class="on">Gasto</span><span>Reserva</span></div></div></div>
-<div class="f2"><label class="fl">Saldo inicial<input class="inp r" value="0,00" readonly></label><div class="fl">Cor<div style="display:flex;gap:8px;padding-top:6px"><span class="tile" style="width:26px;height:26px;border-radius:9px;background:#ece4fb;outline:2px solid #7c4fd6"></span><span class="tile" style="width:26px;height:26px;border-radius:9px;background:#e4edf9"></span><span class="tile" style="width:26px;height:26px;border-radius:9px;background:#e0f2ec"></span><span class="tile" style="width:26px;height:26px;border-radius:9px;background:#f8eadf"></span><span class="tile" style="width:26px;height:26px;border-radius:9px;background:#f8e4ee"></span></div></div></div></div>
+<div class="f2"><div class="fl">Cor<div style="display:flex;gap:8px;padding-top:6px"><span class="tile" style="width:26px;height:26px;border-radius:9px;background:#ece4fb;outline:2px solid #7c4fd6"></span><span class="tile" style="width:26px;height:26px;border-radius:9px;background:#e4edf9"></span><span class="tile" style="width:26px;height:26px;border-radius:9px;background:#e0f2ec"></span><span class="tile" style="width:26px;height:26px;border-radius:9px;background:#f8eadf"></span><span class="tile" style="width:26px;height:26px;border-radius:9px;background:#f8e4ee"></span></div></div></div></div>
 <div class="mfoot"><button class="btn ghost" type="button">Cancelar</button><button class="btn" type="button">Salvar</button></div></div></div></div>
 
 </body></html>

diff --git a/docs/design-system.md b/docs/design-system.md
@@ -123,6 +123,12 @@ Rótulo acima, 1.25rem em 500, `--color-text-muted`. Campo com fundo `--color-ca
 ### Seletor de data (padrão do sistema)
 Todo campo de data usa o mesmo calendário do filtro Personalizado: o campo aceita digitação com máscara dd/mm/aaaa e tem um botão de calendário à direita (ícone lucide `Calendar`, `aria-label="Abrir calendário"`) que abre um popover. O popover traz mês e ano no topo com setas, grade de dias com iniciais D S T Q Q S S, dia selecionado em `--color-primary` e dias fora do mês esmaecidos. Navegação por teclado: setas movem o dia, Enter escolhe, Esc fecha só o popover (nunca o modal que o contém). Em campo de data única, escolher o dia preenche o campo e fecha o popover. Em intervalo (De – Até) o mesmo calendário seleciona a faixa, com `--color-accent` no meio. Dias acima do limite (ex.: depois de hoje, na data da transação) ficam desabilitados e esmaecidos. Um único componente `DatePicker` serve todo o sistema; não crie outro calendário.
 
+### Campo de mês e navegação de mês
+**Campo de mês** (`MonthField`): campo com máscara mm/aaaa e setas ‹ › para mudar o mês, no mesmo estilo do campo de formulário. Usado onde o dado é um mês (início e fim de fixo). **Navegação de mês** (`MonthNav`): o seletor do cabeçalho da página, com seta anterior, "Novembro 2026" e seta próxima (veja `docs/design/dark/planning.png`). Os dois usam os mesmos nomes de mês do calendário.
+
+### Barra de uso (planejado × gasto)
+Mesma barra de progresso, com a % ao lado. Até 100%: preenchimento `--color-primary-fill`. Acima de 100%: `--color-destructive`, % e o "resta" negativo em `--color-negative-text`, e o texto sempre mostra o número (nunca só a cor). Entre 90% e 100% aparece o texto "Perto do limite" em `--color-text-muted`, sem cor nova.
+
 ### Segmento e abas
 Grupo de opções com fundo `--color-card-inset` (ou `--color-card` nas abas da página), borda fina, canto `--radius-md`, padding 0.4rem. Opção ativa com fundo `--color-accent` e texto `--color-accent-text`. As abas do Gerenciar usam esse mesmo estilo.
 
